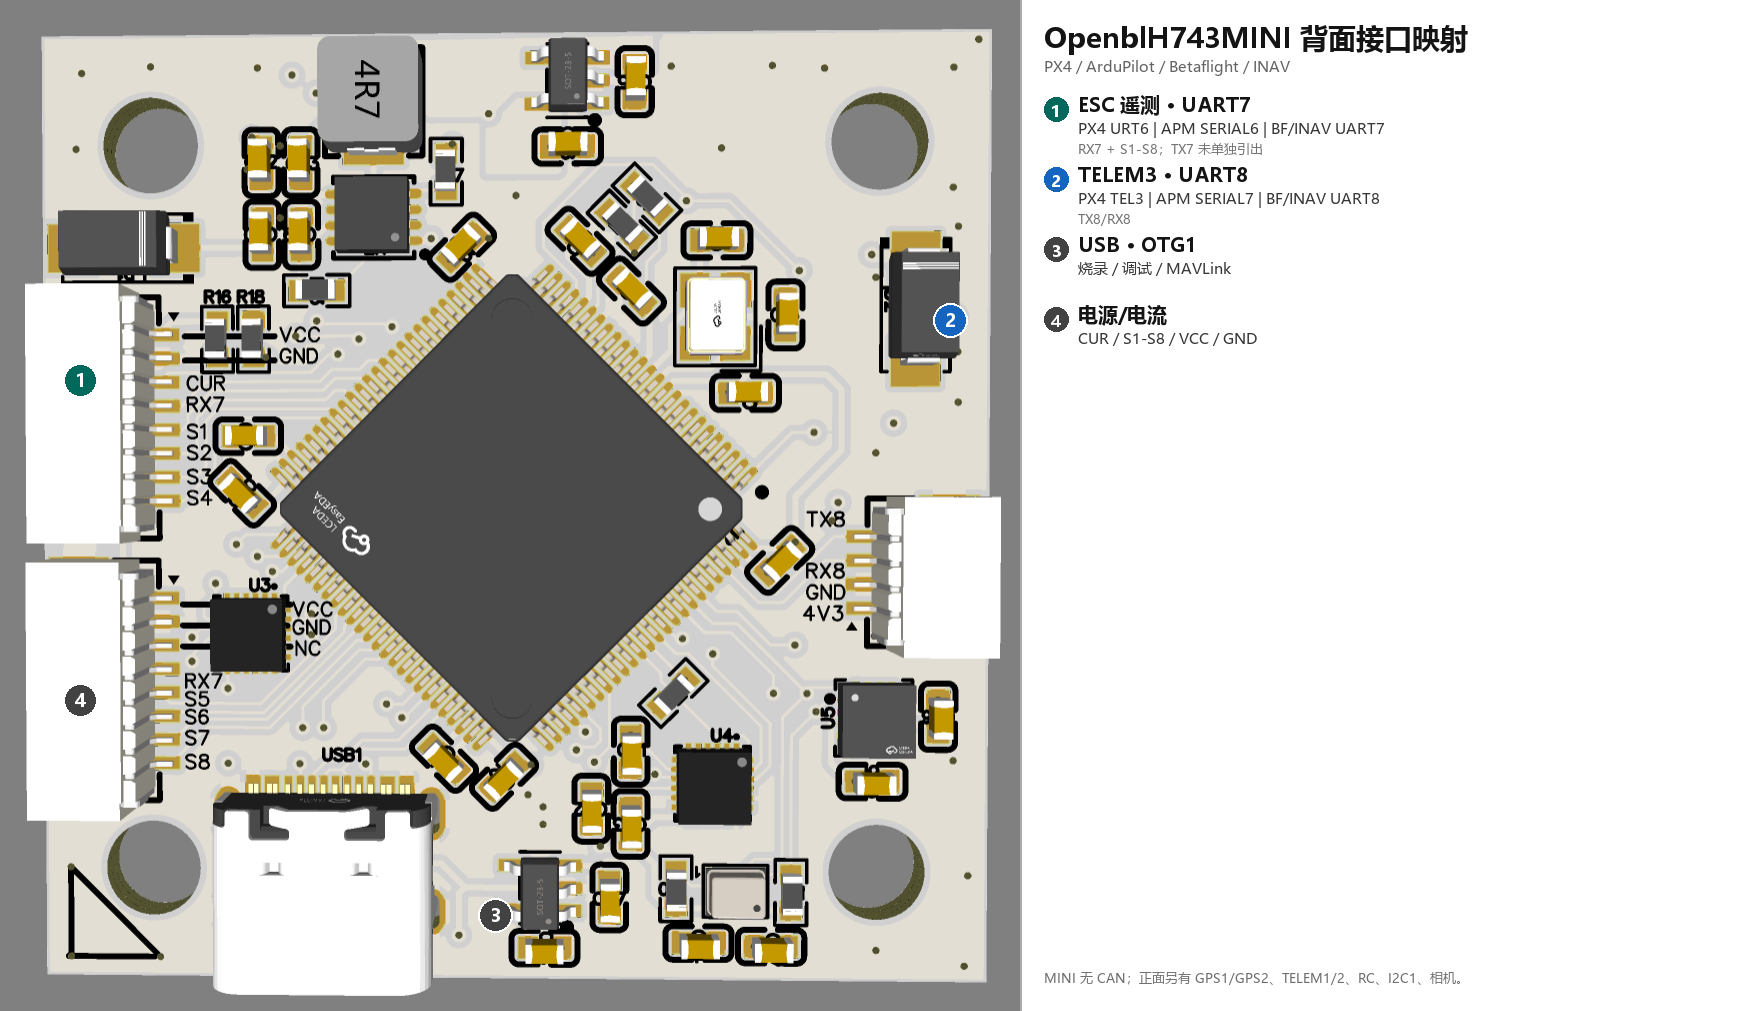
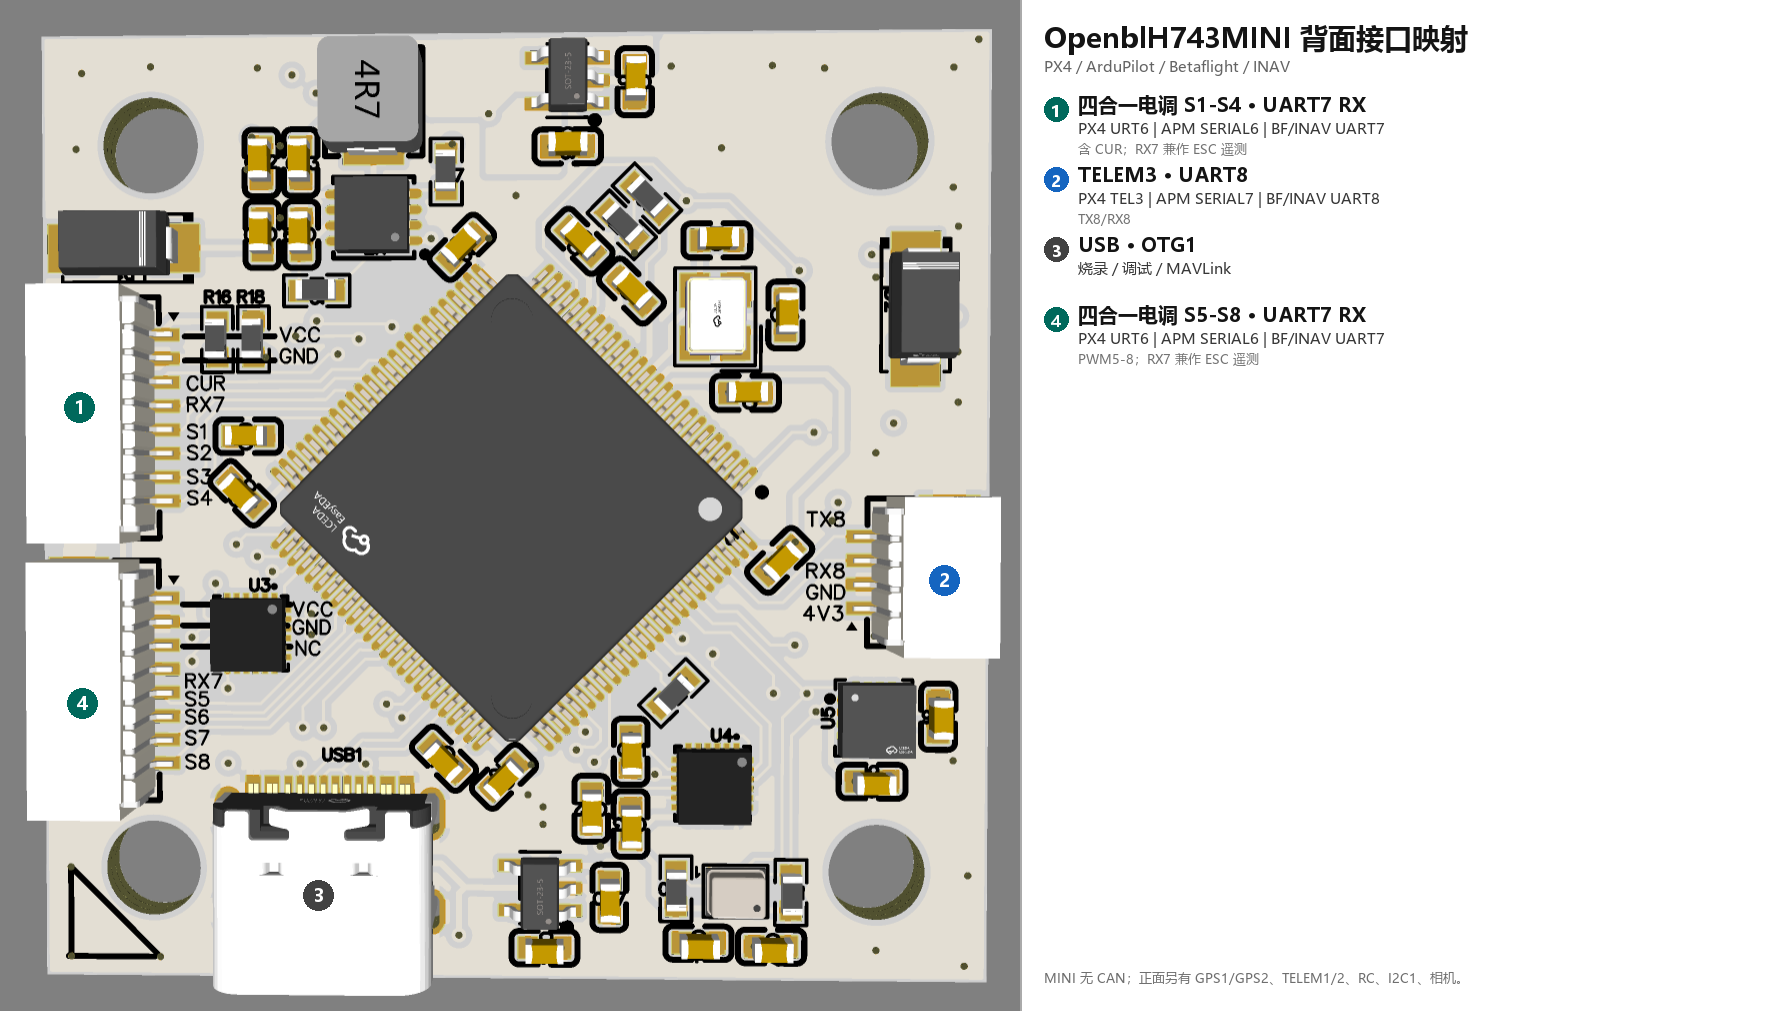
Fix interface map callout positions and MINI ESC labels
Re-derive connector coordinates from the pick-and-place files and image
detection so the callouts sit on the actual connectors. Relabel the MINI
rear connectors as 4-in-1 ESC S1-S4 (U16) and S5-S8 (U19), both carrying
RX7/UART7 telemetry.

Changed region(s): [[0.031, 0.0, 0.8379, 1.0], [0.0621, 0.092, 0.0931, 0.1227]]

diff --git a/PPT/接口说明.md b/PPT/接口说明.md
@@ -94,10 +94,10 @@ MINI 没有这个歧义：丝印直接标了 TX1/RX1 与 TX3/RX3。
 
 | 标注 | 丝印 / 位置 | 原理图 Ref | 引脚 | USART | PX4 | APM | BF/INAV | 备注 |
 |---|---|---|---|---|---|---|---|---|
-| 1 | ESC 遥测 / 电源（左侧 10pin） | U16 / U19 `BX-SH1.0-10PWT` | VCC · GND · CUR · RX7 · PWM1-4 / PWM5-8 | UART7 RX | **URT6** | SERIAL6 | UART7 | 仅 RX7，TX7 未单独引出 |
+| 1 | 四合一电调 S1-S4（左侧 8pin） | U16 `BX-SH1.0-8PWT` | VCC · GND · CUR · RX7 · PWM1-4 | UART7 RX | **URT6** | SERIAL6 | UART7 | 含电流检测；RX7 为 ESC 遥测 |
 | 2 | TELEM3（4pin） | U12 `BX-SH1.0-4PWT` | 4V3 · GND · RX8 · TX8 | UART8 | **TELEM3** | SERIAL7 | UART8 | |
 | 3 | USB | — | DP / DM / 5V / GND | — | OTG1 | SERIAL0 | — | |
-| 4 | 电源/电流 | U16 / U19 | CUR · S1-S8 · VCC · GND | — | — | — | — | 与 ESC/PWM 共用连接器 |
+| 4 | 四合一电调 S5-S8（左侧 8pin） | U19 `BX-SH1.0-8PWT` | VCC · GND · NC · RX7 · PWM5-8 | UART7 RX | **URT6** | SERIAL6 | UART7 | RX7 为 ESC 遥测 |
 
 > **MINI 没有 CAN 接口**（原理图标注 "CAN通讯接口（无）"）。
 > MINI 的 UART7 只引出了 RX7（ESC 遥测输入），没有独立的 TX7 引脚。
@@ -114,7 +114,7 @@ MINI 没有这个歧义：丝印直接标了 TX1/RX1 与 TX3/RX3。
 | PX4 TELEM2 | 正面 TELEM2（UART4） | 正面 U11（UART4） |
 | PX4 TELEM3 | 正面 TELEM3（UART8） | 背面 U12（UART8） |
 | PX4 RC / 接收机 | 正面 TELEM/RC 或 SBUS（USART6） | 正面 U14 或 U17（USART6） |
-| PX4 URT6 / ESC 遥测 | 正面 RX7/TX7（UART7） | 背面 ESC 口 RX7（UART7 RX） |
+| PX4 URT6 / ESC 遥测 | 正面 RX7/TX7（UART7） | 背面 ESC 口 RX7（S1-S4 / S5-S8） |
 | 外接罗盘 | 正面 I2C1（CN4） | 正面 U8（I2C1） |
 | CAN | 正面 CN2 | 无 |
 

diff --git a/PPT/interface_map_en.md b/PPT/interface_map_en.md
@@ -84,10 +84,10 @@ USART2 and USART6 are paralleled across several physical connectors — connect 
 
 | # | Silkscreen | Ref | Pins | USART | PX4 | APM | BF/INAV | Notes |
 |---|---|---|---|---|---|---|---|---|
-| 1 | ESC telemetry / power (10-pin) | U16 / U19 | VCC, GND, CUR, RX7, PWM1-8 | UART7 RX | **URT6** | SERIAL6 | UART7 | RX7 only; TX7 not broken out |
+| 1 | 4-in-1 ESC S1-S4 (8-pin) | U16 | VCC, GND, CUR, RX7, PWM1-4 | UART7 RX | **URT6** | SERIAL6 | UART7 | Current sense; RX7 = ESC telemetry |
 | 2 | TELEM3 (4-pin) | U12 | 4V3, GND, RX8, TX8 | UART8 | **TELEM3** | SERIAL7 | UART8 | |
 | 3 | USB | — | DP, DM, 5V, GND | — | OTG1 | SERIAL0 | — | |
-| 4 | Power / current | U16 / U19 | CUR, S1-S8, VCC, GND | — | — | — | — | Shared with ESC/PWM |
+| 4 | 4-in-1 ESC S5-S8 (8-pin) | U19 | VCC, GND, NC, RX7, PWM5-8 | UART7 RX | **URT6** | SERIAL6 | UART7 | RX7 = ESC telemetry |
 
 The MINI has **no CAN** connector and only RX7 of UART7 (ESC telemetry input).
 
@@ -101,7 +101,7 @@ The MINI has **no CAN** connector and only RX7 of UART7 (ESC telemetry input).
 | PX4 TELEM2 | Front TELEM2 | Top U11 |
 | PX4 TELEM3 | Front TELEM3 | Bottom U12 |
 | PX4 RC / receiver | Front TELEM/RC or SBUS | Top U14 or U17 |
-| PX4 URT6 / ESC telemetry | Front RX7/TX7 | Bottom ESC connector RX7 |
+| PX4 URT6 / ESC telemetry | Front RX7/TX7 | Bottom ESC connectors RX7 (S1-S4 / S5-S8) |
 | External compass | Front I2C1 (CN4) | Top U8 |
 | CAN | Front CN2 | — |
 
